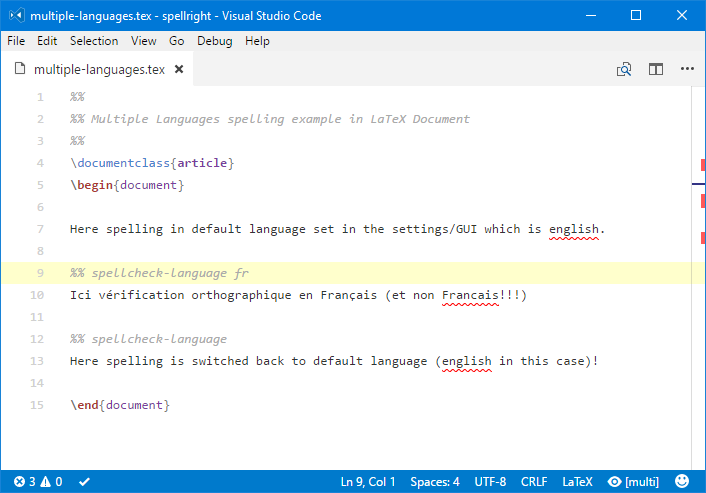
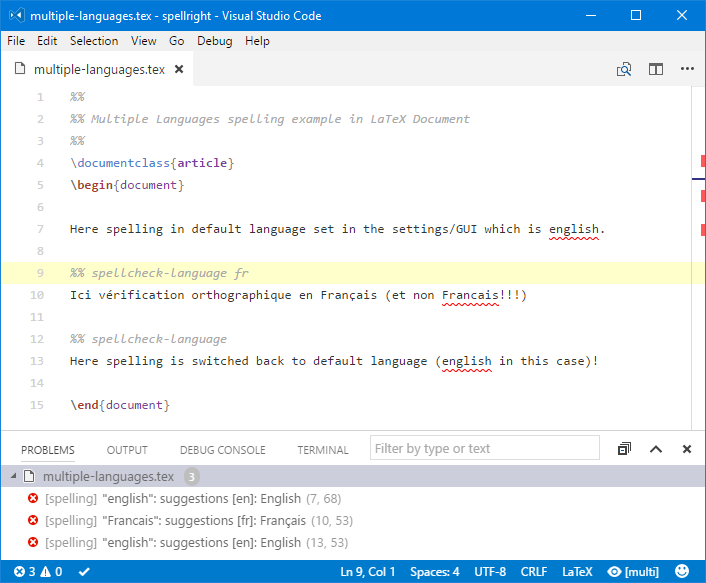
Multiple Languages final (1.0.20)

diff --git a/src/spellright.js b/src/spellright.js
@@ -567,7 +567,12 @@ var SpellRight = (function () {
                 if (settings.suggestionsInHints) {
                     var suggestions = spellchecker.getCorrectionsForMisspelling(word);
                     if (suggestions.length > 0) {
-                        var message = message + ': suggestions: ';
+                        var message = message + ': suggestions';
+                        if (settings._commands.languages.length > 1 || settings._commands.nlanguages.length > 0) {
+                            var message = message + ' [' + this.spellingContext[0]._language + ']: ';
+                        } else {
+                            var message = message + ': ';
+                        }
                         for (var _i = 0, suggestions_1 = suggestions; _i < suggestions_1.length; _i++) {
                             var s = suggestions_1[_i];
                             message += s + ', ';
@@ -625,8 +630,10 @@ var SpellRight = (function () {
             } else if (command === 'language') {
                 if (this.checkDictionary(parameters)) {
                     this.setDictionary(parameters);
+                    this.spellingContext[0]._language = parameters;
                 } else {
                     this.setDictionary(settings.language);
+                    this.spellingContext[0]._language = settings.language;
                 }
             }
         }
@@ -755,7 +762,7 @@ var SpellRight = (function () {
                 _line: 0,
                 _start: Date.now(),
                 _update: Date.now(),
-                _language: '',
+                _language: settings.language,
                 _enabled: true
             };
             this.spellingContext.push(_context);
@@ -859,7 +866,7 @@ var SpellRight = (function () {
             _line: 0,
             _start: Date.now(),
             _update: Date.now(),
-            _language: '',
+            _language: settings.language,
             _enabled: true
         };
 

diff --git a/README.md b/README.md
@@ -78,6 +78,8 @@ Or when it has been forced OFF by InDoc command (`spellcheck-off`) or rule in `.
 
 ![switch](media/screenshot-switch-forced-off.png)
 
+### Multiple languages in one document
+
 When there is multiple languages selected by InDoc command `spellcheck-language` placed within document:
 
 ![switch](media/screenshot-switch-multiple.png)
